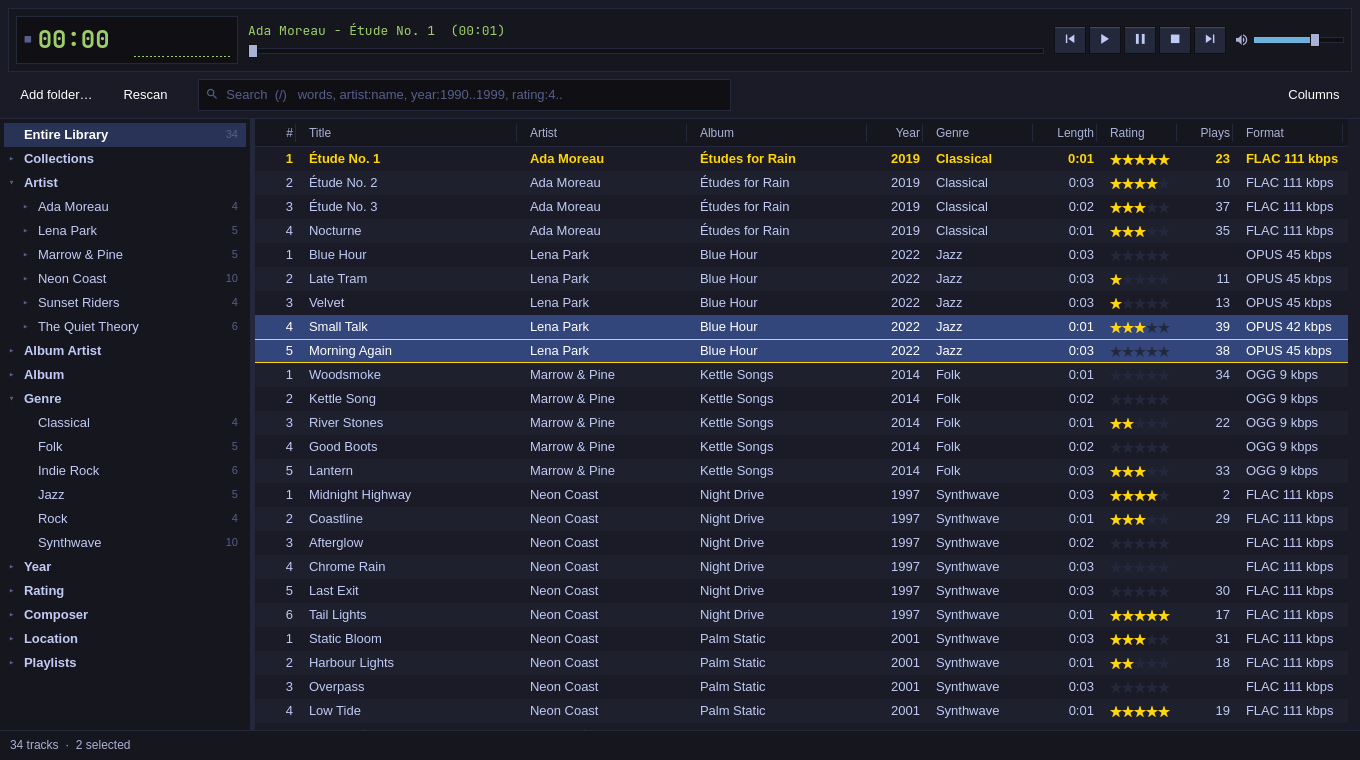
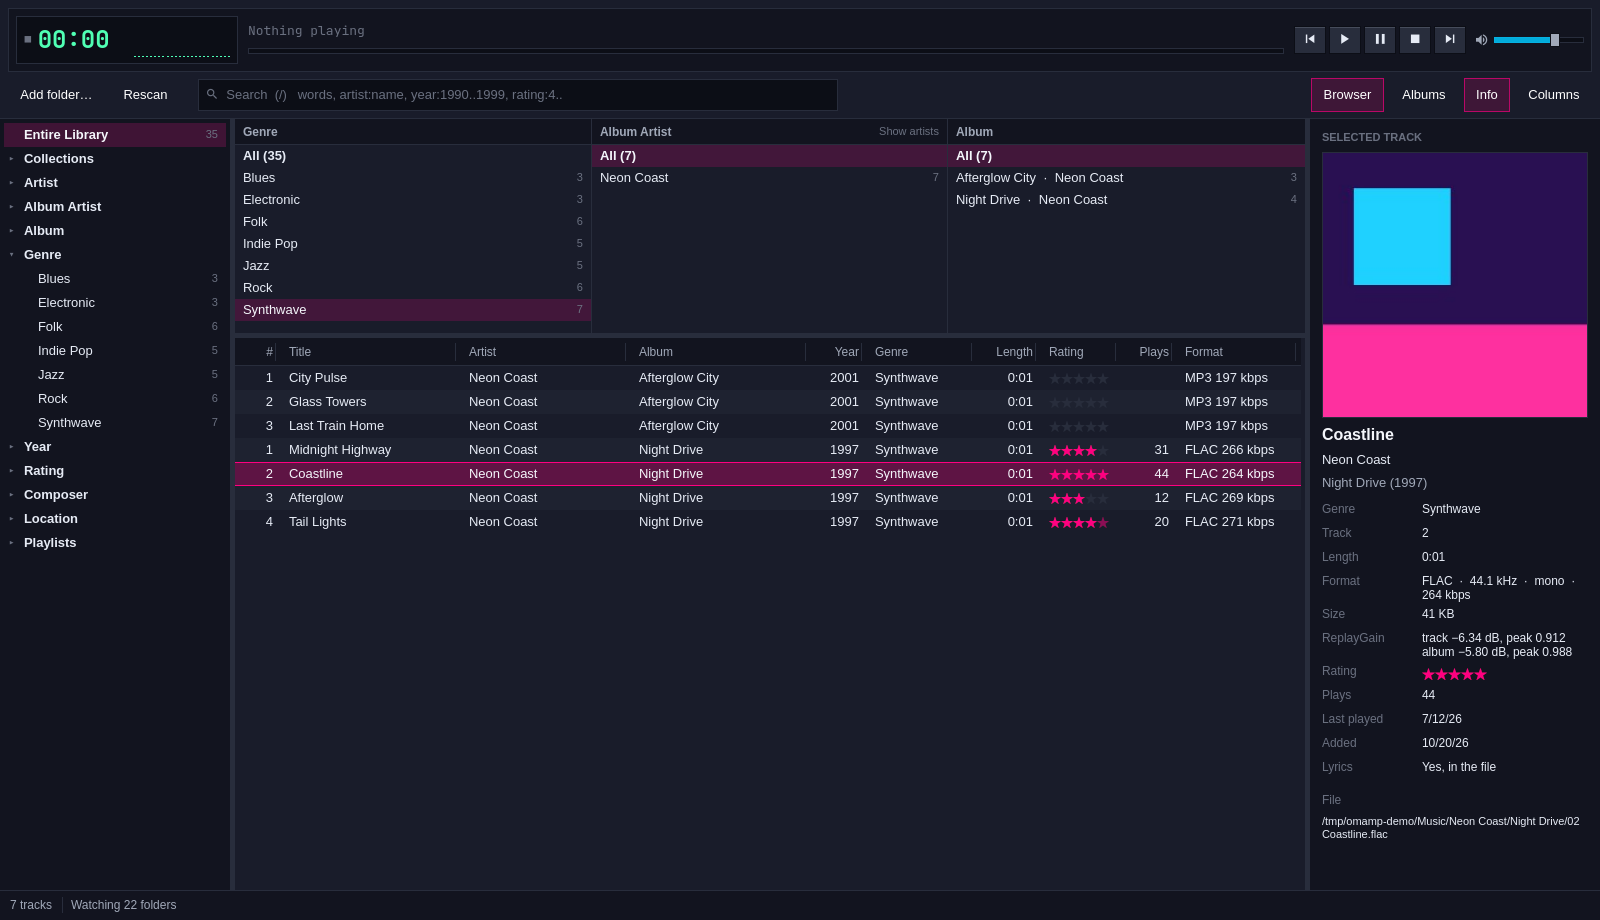
Make chosen rows readable in every theme, document the new parts, add screenshots

diff --git a/src/app/BrowserPanes.qml b/src/app/BrowserPanes.qml
@@ -97,7 +97,10 @@ FocusScope {
                     function choose(row, mods) {
                         row = Math.max(0, Math.min(count - 1, row))
                         currentIndex = row
-                        browser.model.select(pane.index, row, mods)
+                        // Ctrl moves the cursor only, as in the track list, so
+                        // Ctrl+Space can pick values that are far apart.
+                        if (!((mods & Qt.ControlModifier) && !(mods & Qt.ShiftModifier)))
+                            browser.model.select(pane.index, row, mods)
                         positionViewAtIndex(row, ListView.Contain)
                     }
 
@@ -131,7 +134,16 @@ FocusScope {
                     // A new list of values starts at the first chosen one.
                     Connections {
                         target: pane.facet
-                        function onModelReset() { list.currentIndex = pane.facet.firstSelectedRow() }
+                        function onModelReset() {
+                            list.currentIndex = pane.facet.firstSelectedRow()
+                            list.positionViewAtIndex(list.currentIndex, ListView.Contain)
+                        }
+                        // Chosen from elsewhere (the palette, a refresh): show it.
+                        function onSelectionChanged() {
+                            if (list.activeFocus) return
+                            list.currentIndex = pane.facet.firstSelectedRow()
+                            list.positionViewAtIndex(list.currentIndex, ListView.Contain)
+                        }
                     }
 
                     delegate: Rectangle {
@@ -146,8 +158,8 @@ FocusScope {
 
                         width: ListView.view.width
                         height: 22
-                        color: valueSelected ? (list.activeFocus ? theme.c.selection : Qt.alpha(theme.c.selection, 0.6))
-                             : hover.hovered ? Qt.alpha(theme.c.selection, 0.25) : "transparent"
+                        color: valueSelected ? (list.activeFocus ? theme.listSelection : Qt.alpha(theme.listSelection, 0.6))
+                             : hover.hovered ? Qt.alpha(theme.listSelection, 0.25) : "transparent"
                         border.width: cursor && !valueSelected ? 1 : 0
                         border.color: theme.accent
 

diff --git a/src/app/InfoPanel.qml b/src/app/InfoPanel.qml
@@ -14,6 +14,8 @@ Rectangle {
 
     // Set by the view: the track to show, or 0 for the one playing.
     property var chosenTrack: 0
+    // What the chosen track stands for, when it isn't simply a track.
+    property string chosenHeading: ""
     readonly property var trackId: chosenTrack > 0 ? chosenTrack : library.playingTrackId
     readonly property bool showingPlaying: !(chosenTrack > 0) && library.playingTrackId > 0
     // Reads again whenever the library changes (library.revision).
@@ -68,7 +70,8 @@ Rectangle {
 
             Text {
                 Layout.fillWidth: true
-                text: panel.showingPlaying ? qsTr("Now playing") : panel.hasTrack ? qsTr("Selected track") : ""
+                text: panel.showingPlaying ? qsTr("Now playing")
+                      : panel.hasTrack ? (panel.chosenHeading !== "" ? panel.chosenHeading : qsTr("Selected track")) : ""
                 visible: text !== ""
                 font.pixelSize: 11
                 font.bold: true
@@ -163,7 +166,7 @@ Rectangle {
                         [qsTr("Plays"), panel.info.plays > 0 ? Number(panel.info.plays).toLocaleString(Qt.locale(), 'f', 0) : qsTr("Never played")],
                         [qsTr("Last played"), panel.day(panel.info.lastPlayed)],
                         [qsTr("Added"), panel.day(panel.info.added)],
-                        [qsTr("Lyrics"), panel.info.hasLyrics ? qsTr("In the file (the lyrics view comes later)") : qsTr("None")],
+                        [qsTr("Lyrics"), panel.info.hasLyrics ? qsTr("Yes, in the file") : qsTr("None")],
                         [qsTr("BPM"), panel.info.bpm > 0 ? String(panel.info.bpm) : ""]
                     ].filter(r => r[1] !== undefined && r[1] !== "") : []
 

diff --git a/src/app/LibraryTreePane.qml b/src/app/LibraryTreePane.qml
@@ -104,9 +104,9 @@ FocusScope {
             width: ListView.view.width
             height: 24
             radius: Math.min(3, theme.radius)
-            color: chosen ? (pane.activeFocus ? theme.c.selection : Qt.alpha(theme.c.selection, 0.6))
-                 : cursor && pane.activeFocus ? Qt.alpha(theme.c.selection, 0.35)
-                 : hover.hovered ? Qt.alpha(theme.c.selection, 0.25) : "transparent"
+            color: chosen ? (pane.activeFocus ? theme.listSelection : Qt.alpha(theme.listSelection, 0.6))
+                 : cursor && pane.activeFocus ? Qt.alpha(theme.listSelection, 0.35)
+                 : hover.hovered ? Qt.alpha(theme.listSelection, 0.25) : "transparent"
             border.width: cursor && pane.activeFocus && !chosen ? 1 : 0
             border.color: theme.accent
 

diff --git a/src/app/AdvancedView.qml b/src/app/AdvancedView.qml
@@ -19,7 +19,7 @@ FocusScope {
     property bool browserVisible: false
     property bool infoVisible: false
     property bool gridVisible: false
-    property int browserHeight: 190
+    property int browserHeight: 214
     property int infoWidth: 290
     signal clockClicked()
     signal layoutEdited()
@@ -311,6 +311,7 @@ FocusScope {
                 SplitView.preferredWidth: view.infoWidth
                 SplitView.minimumWidth: 220
                 onWidthChanged: view.layoutEdited()
+                chosenHeading: view.showingGrid ? qsTr("Chosen album, first track") : ""
                 // The track under the cursor, or the album chosen in the grid;
                 // 0 shows the track that is playing.
                 chosenTrack: view.nowPlaying ? 0

diff --git a/src/app/AlbumGrid.qml b/src/app/AlbumGrid.qml
@@ -95,8 +95,8 @@ FocusScope {
                 anchors.rightMargin: 8
                 anchors.bottomMargin: 8
                 radius: Math.min(4, theme.radius)
-                color: tile.chosen ? (grid.activeFocus ? theme.c.selection : Qt.alpha(theme.c.selection, 0.6))
-                     : hover.hovered ? Qt.alpha(theme.c.selection, 0.25) : "transparent"
+                color: tile.chosen ? (grid.activeFocus ? theme.listSelection : Qt.alpha(theme.listSelection, 0.6))
+                     : hover.hovered ? Qt.alpha(theme.listSelection, 0.25) : "transparent"
             }
             HoverHandler { id: hover }
 

diff --git a/src/app/NowPlayingList.qml b/src/app/NowPlayingList.qml
@@ -78,7 +78,7 @@ FocusScope {
             readonly property bool playing: index === backend.currentIndex
             width: ListView.view.width
             height: 24
-            color: index === list.currentIndex ? (list.activeFocus ? theme.c.selection : Qt.alpha(theme.c.selection, 0.6))
+            color: index === list.currentIndex ? (list.activeFocus ? theme.listSelection : Qt.alpha(theme.listSelection, 0.6))
                  : index % 2 ? Qt.alpha(theme.c.lighter_background, 0.35) : "transparent"
             Row {
                 anchors.fill: parent

diff --git a/src/app/TrackTable.qml b/src/app/TrackTable.qml
@@ -216,7 +216,7 @@ FocusScope {
             readonly property int ratingValue: rating !== undefined ? rating : -1
 
             implicitHeight: 24
-            color: rowSelected ? (table.activeFocus ? theme.c.selection : Qt.alpha(theme.c.selection, 0.6))
+            color: rowSelected ? (table.activeFocus ? theme.listSelection : Qt.alpha(theme.listSelection, 0.6))
                  : row % 2 ? Qt.alpha(theme.c.lighter_background, 0.35) : "transparent"
 
             // The keyboard cursor: a line above and below the row.

diff --git a/src/app/CommandPalette.qml b/src/app/CommandPalette.qml
@@ -177,7 +177,7 @@ Popup {
                 width: ListView.view.width
                 height: root.rowHeight
                 radius: Math.min(4, theme.radius)
-                color: current ? theme.c.selection : hover.hovered ? Qt.alpha(theme.c.selection, 0.4) : "transparent"
+                color: current ? theme.listSelection : hover.hovered ? Qt.alpha(theme.listSelection, 0.4) : "transparent"
                 opacity: actionEnabled ? 1 : 0.5
 
                 HoverHandler { id: hover }

diff --git a/src/app/Main.qml b/src/app/Main.qml
@@ -42,7 +42,7 @@ ApplicationWindow {
         // Advanced mode's optional parts.
         property bool browserVisible: false
         property string browserArtistMode: "albumartist"
-        property int browserHeight: 190
+        property int browserHeight: 214
         property bool infoVisible: false
         property int infoWidth: 290
         property bool gridVisible: false

diff --git a/src/app/theme.cpp b/src/app/theme.cpp
@@ -97,6 +97,24 @@ QVariantMap Theme::readColors(const QString &path, bool *light) {
     return colors;
 }
 
+QString Theme::listSelection() const {
+    const QColor selection(m_colors.value("selection").toString());
+    const QColor background(m_colors.value("background").toString());
+    const QColor lighter(m_colors.value("lighter_background").toString());
+    auto distance = [](const QColor &a, const QColor &b) {
+        return std::sqrt(std::pow(a.red() - b.red(), 2) + std::pow(a.green() - b.green(), 2) +
+                         std::pow(a.blue() - b.blue(), 2));
+    };
+    if (distance(selection, lighter) >= 28 && distance(selection, background) >= 28)
+        return selection.name();
+    const QColor accent(this->accent());
+    const double t = 0.3;
+    return QColor::fromRgbF(background.redF() * (1 - t) + accent.redF() * t,
+                            background.greenF() * (1 - t) + accent.greenF() * t,
+                            background.blueF() * (1 - t) + accent.blueF() * t)
+        .name();
+}
+
 // Black or white, whichever reads on the accent (WCAG relative luminance).
 QString Theme::accentForeground() const {
     const QColor c(accent());

diff --git a/src/app/theme.h b/src/app/theme.h
@@ -15,6 +15,11 @@ class Theme : public QObject {
     Q_PROPERTY(QVariantMap c READ colors NOTIFY changed)
     Q_PROPERTY(bool light READ light NOTIFY changed)
     Q_PROPERTY(int radius READ radius NOTIFY changed)
+    // The colour for chosen rows in the library's lists: the theme's
+    // selection, unless that is hard to tell from the row backgrounds (some
+    // themes make it the same as lighter_background), then the accent mixed
+    // into the background.
+    Q_PROPERTY(QString listSelection READ listSelection NOTIFY changed)
 
 public:
     explicit Theme(const QString &currentDirectory = {}, QObject *parent = nullptr, const QString &hyprctl = {});
@@ -22,6 +27,7 @@ public:
 
     QString accent() const { return m_colors.value("accent").toString(); }
     QString accentForeground() const;
+    QString listSelection() const;
     QVariantMap colors() const { return m_colors; }
     bool light() const { return m_light; }
     int radius() const { return m_radius; }

diff --git a/tests/palette_tests.cpp b/tests/palette_tests.cpp
@@ -277,6 +277,7 @@ private slots:
         QVariantMap theme{{"c", Theme::defaults()},
                           {"accent", Theme::defaults().value("accent")},
                           {"accentForeground", "black"},
+                          {"listSelection", Theme::defaults().value("selection")},
                           {"light", false},
                           {"radius", 0}};
         engine.rootContext()->setContextProperty("theme", theme);
